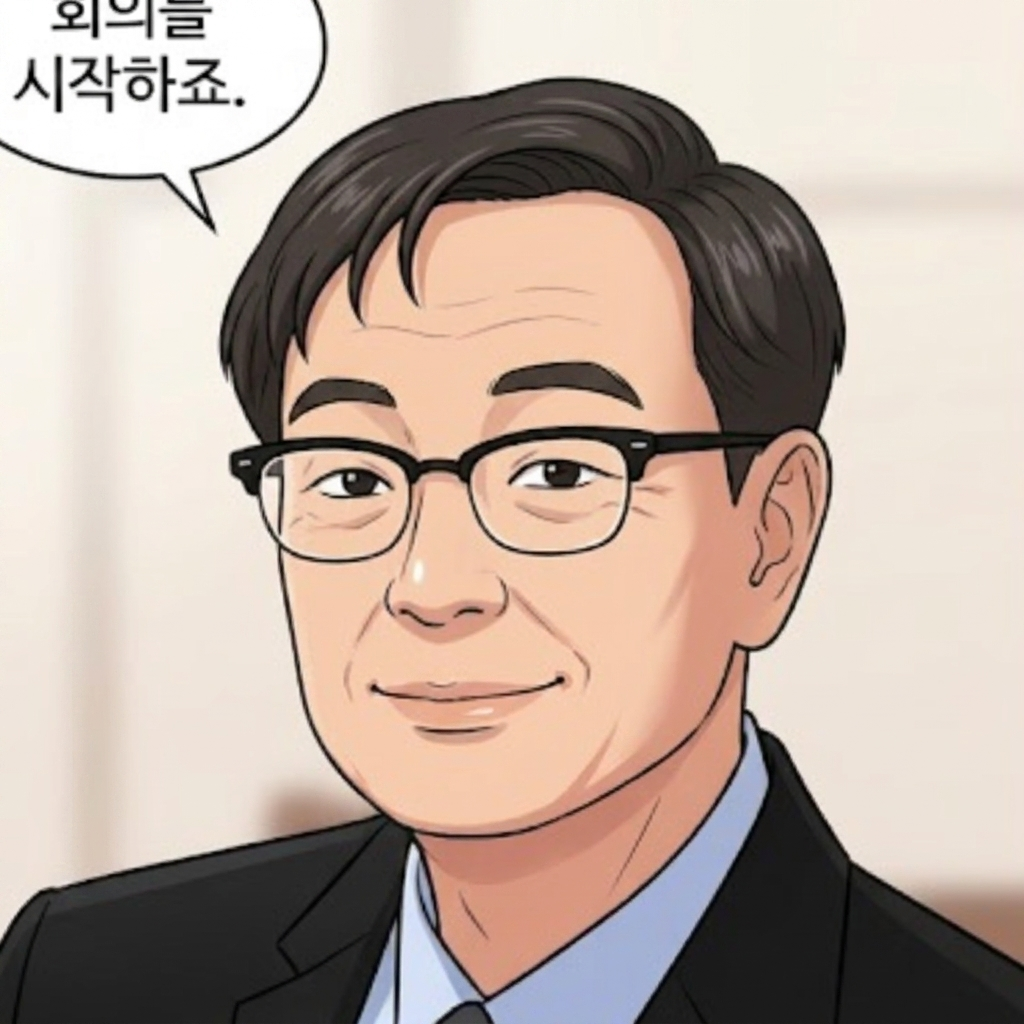
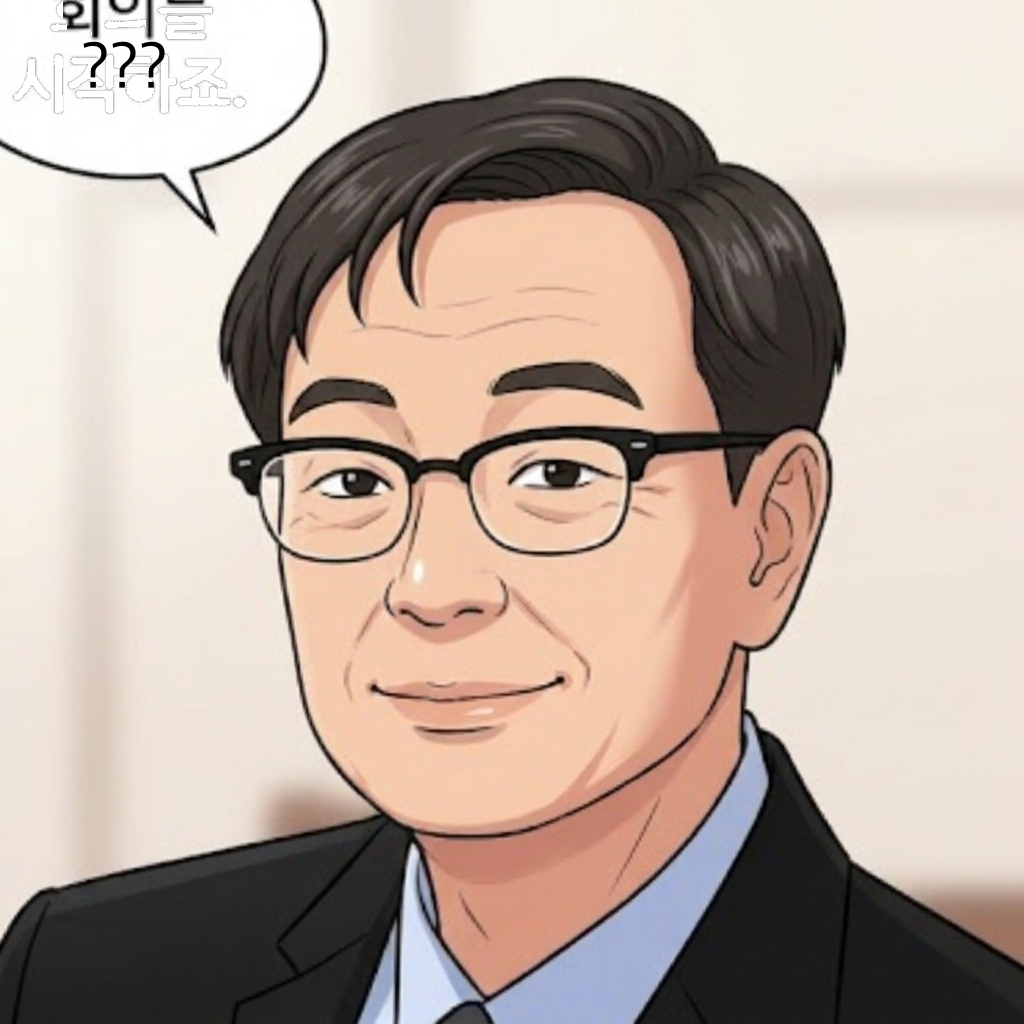
feat: 프로필 이미지 말풍선 문구 수정 (회의를 시작하죠 -> ???)

Changed region(s): [[0.0, 0.0, 0.25, 0.125], [0.0312, 0.0, 0.0625, 0.0312]]

diff --git a/ver.md b/ver.md
@@ -1,5 +1,18 @@
 # Version History
 
+## v1.9.98
+
+Date: 2026-07-19
+
+### 변경 내용
+- 프로필 이미지(profile.png)의 말풍선 문구를 '회의를 시작하죠'에서 '???'로 수정
+
+### 수정 파일
+- profile.png
+
+### 비고
+- 로컬에서 수정 완료
+
 ## v1.9.97
 
 Date: 2026-07-19